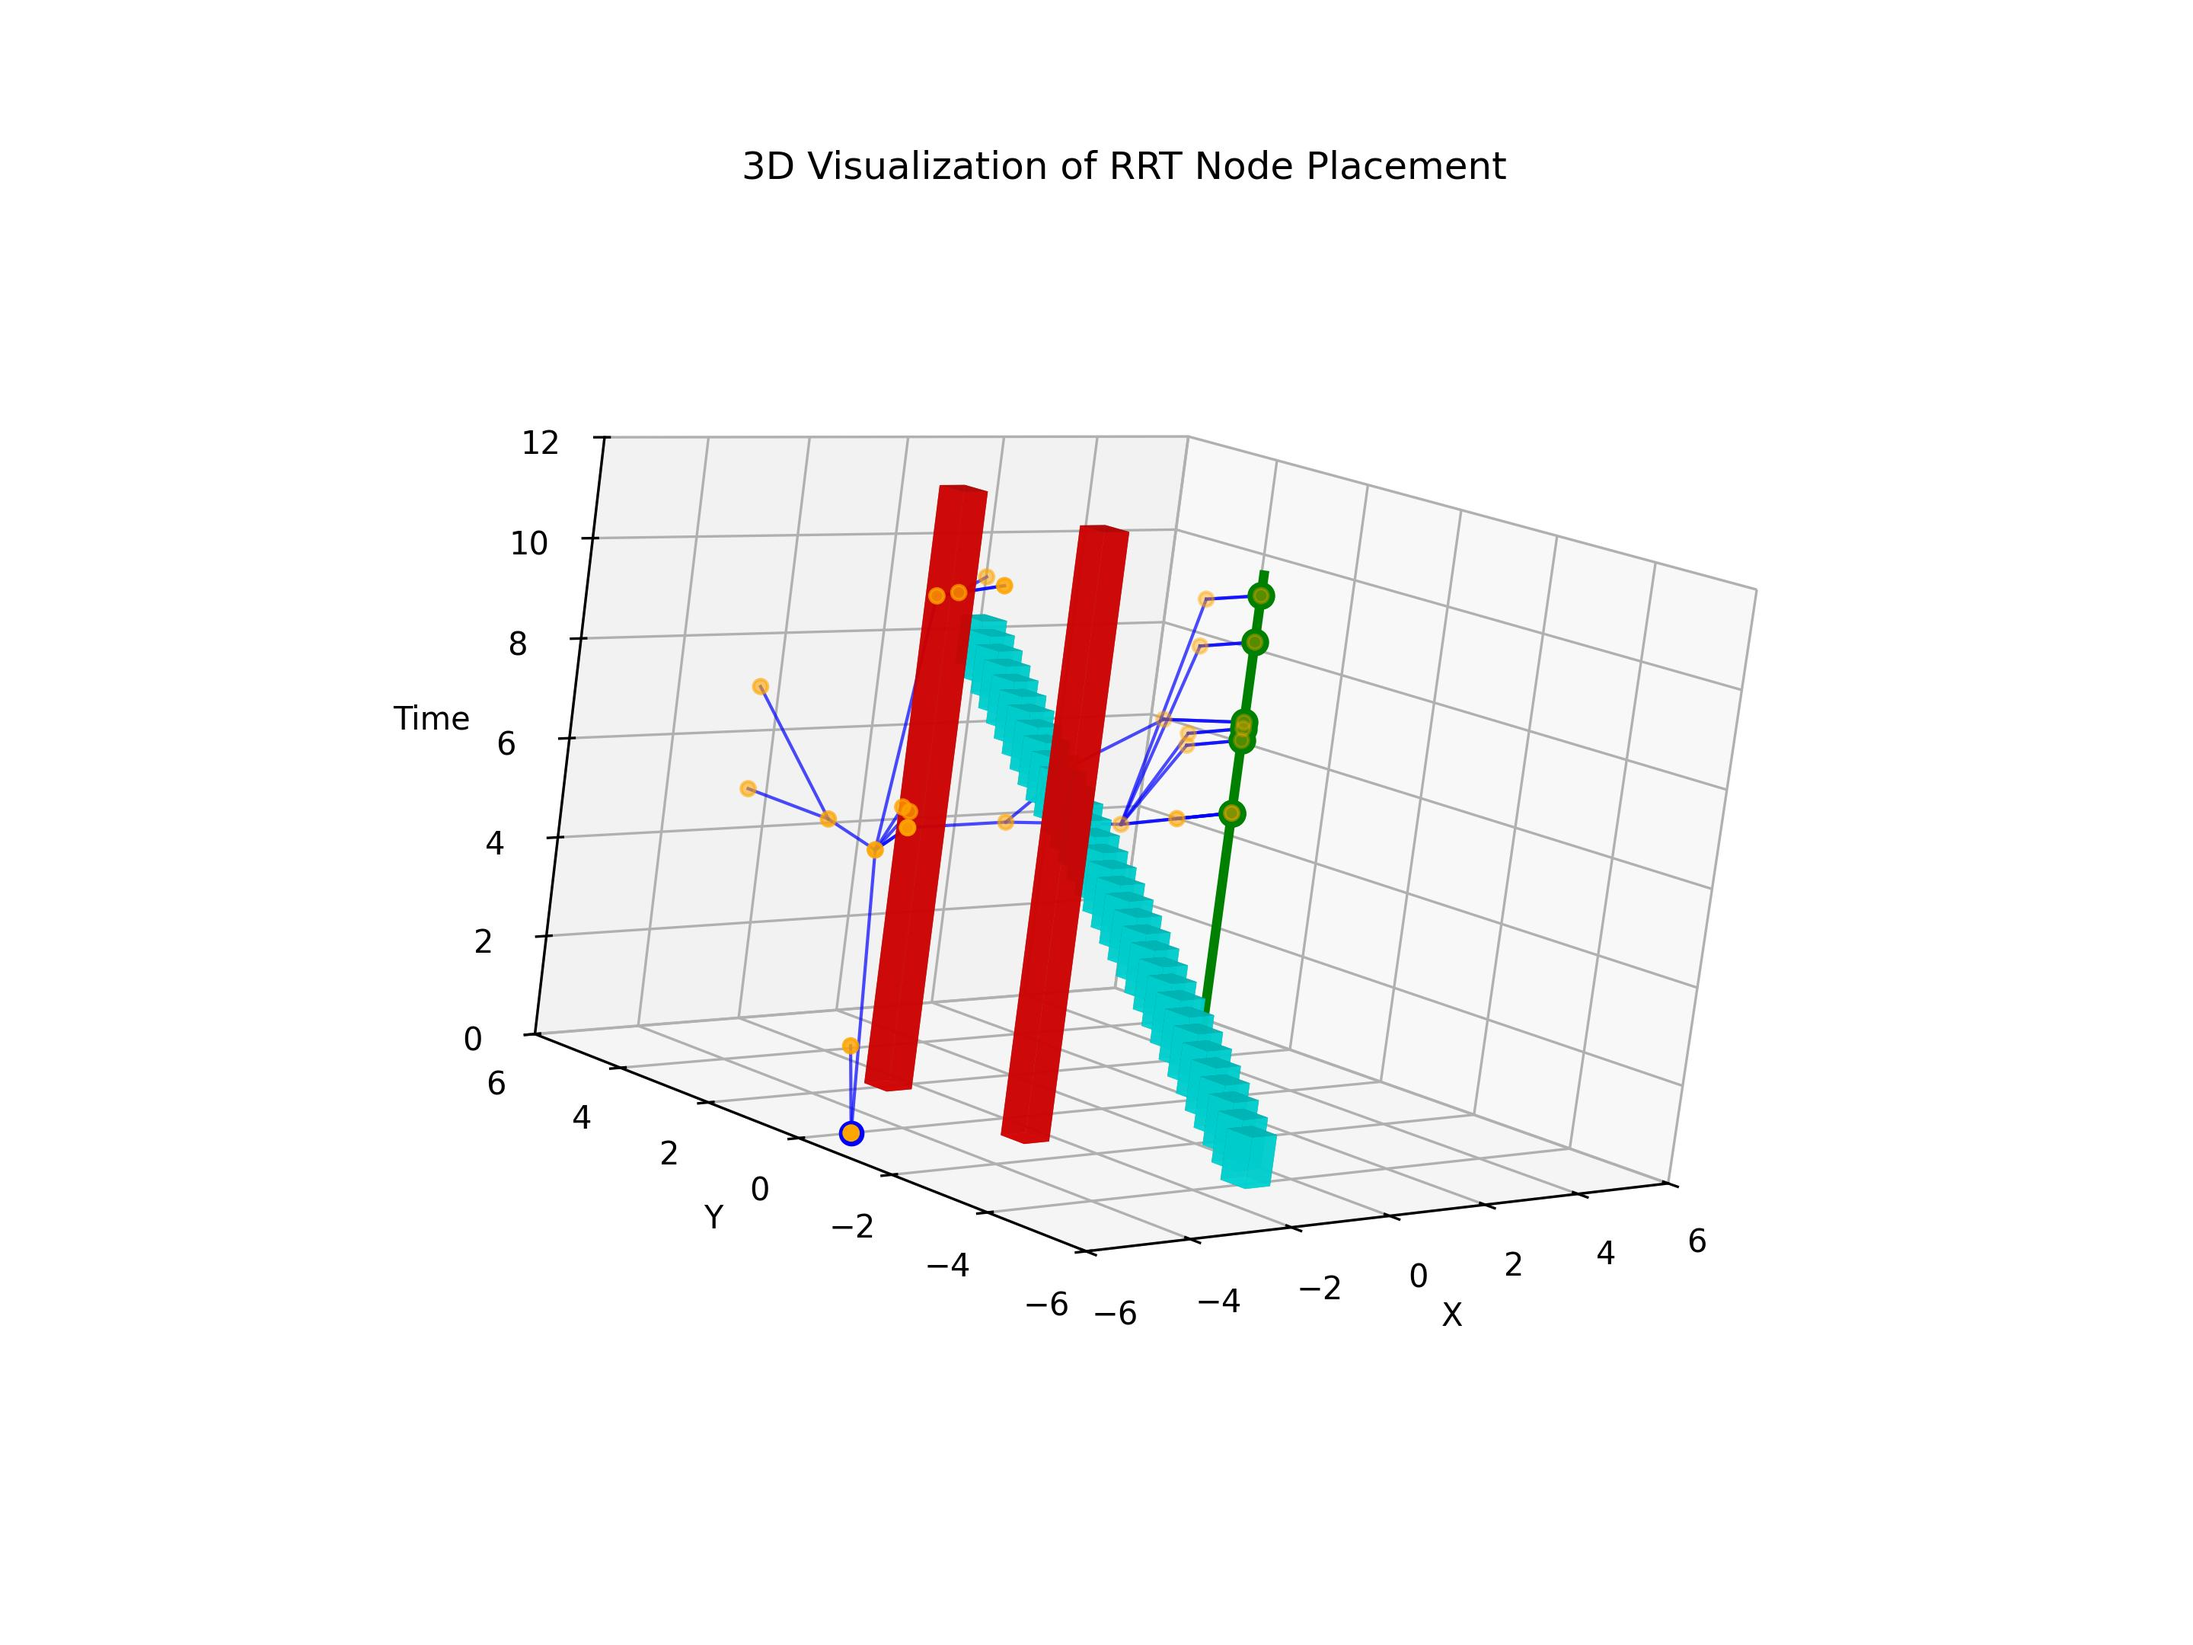
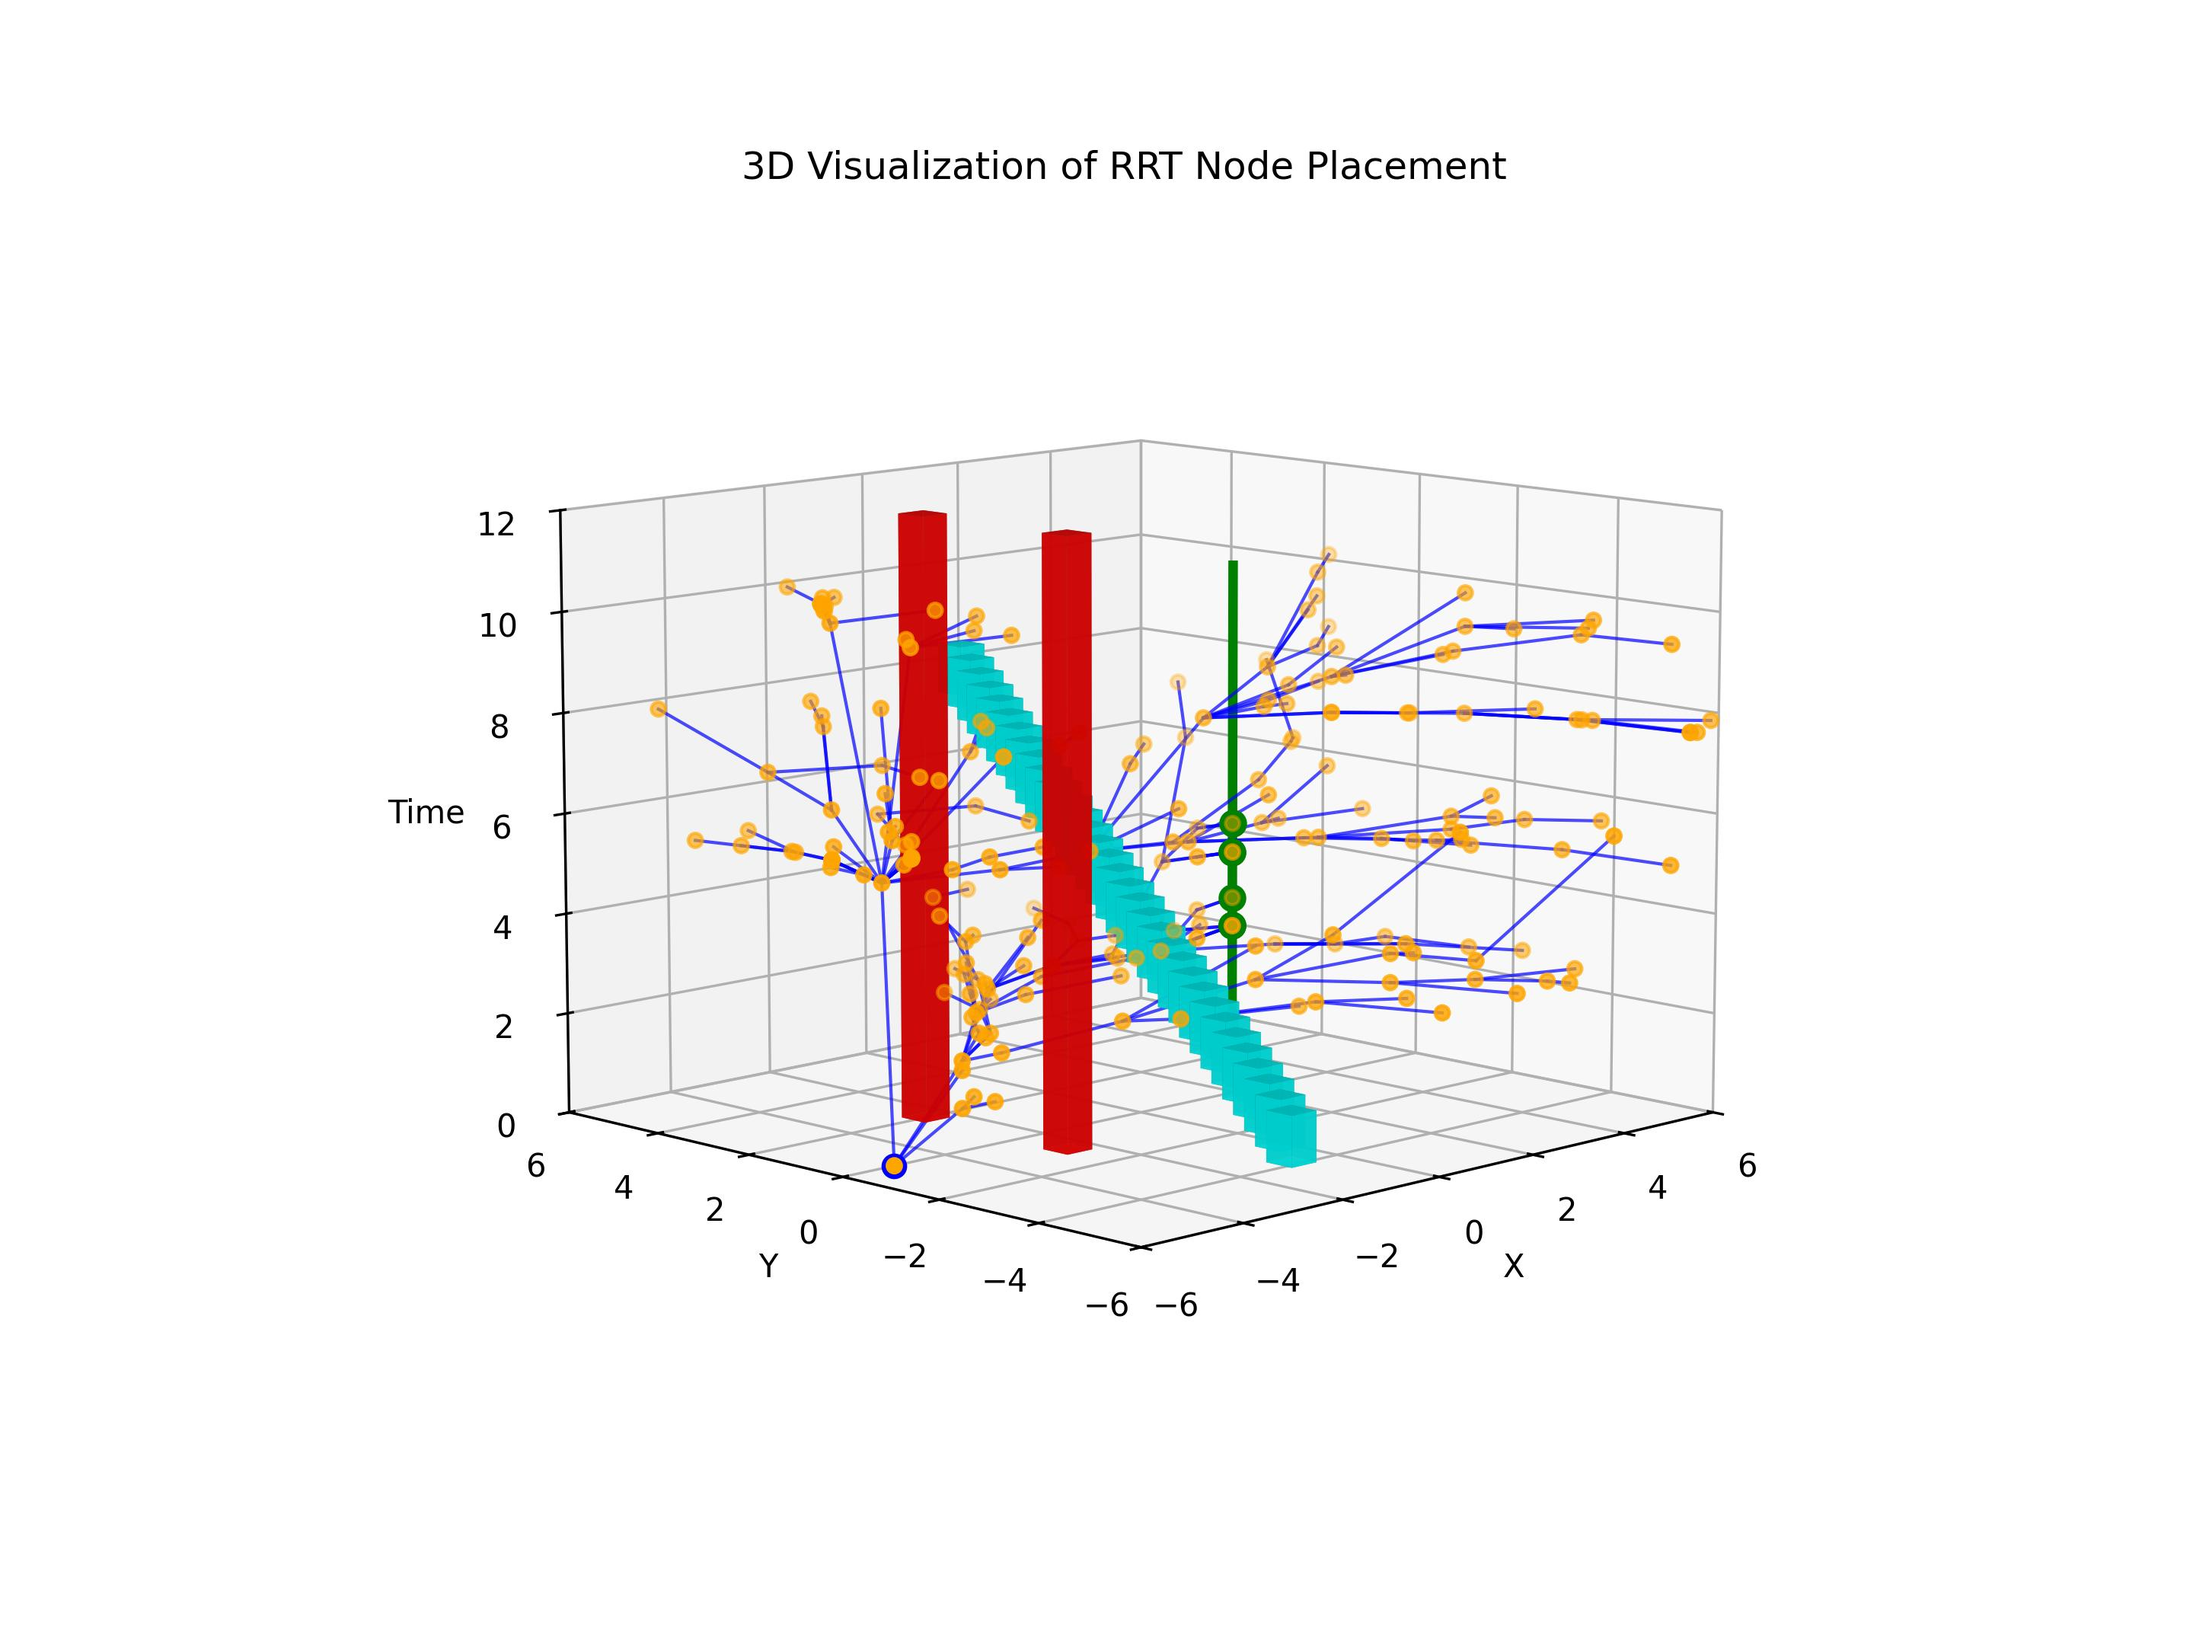
updated gif render with post build rotatiion

Changed region(s): [[0.1875, 0.2481, 0.8125, 0.8065]]

diff --git a/graph_visualizer.py b/graph_visualizer.py
@@ -11,8 +11,8 @@ sys.path.append(os.path.join(os.path.dirname(__file__), '../rrt_demo_app/build')
 import rrtDemo
 
 # Flags
-render_gif = False
-render_png = True
+render_gif = True
+render_png = False
 
 # View Angles
 elev_angle = 10
@@ -87,6 +87,11 @@ first_x, first_y, first_z = (first_node.xCrdnt(), first_node.yCrdnt(), first_nod
 num_frames = len(all_node_xs)
 duration_ms = 15000
 interval_ms = max(1, duration_ms // num_frames)
+
+# Rotation params
+rot_duration_ms = 5000
+rot_frames = int(rot_duration_ms / interval_ms) + 1  # +1 to include start frame
+total_frames = num_frames + rot_frames
 
 # Green indices (destination nodes)
 xy_tol = 1e-2
@@ -191,14 +196,14 @@ def plot_images(ax, image_data):
         ax.plot_surface(img_x_loc, img_y_loc, img_z_loc, rstride=1, cstride=1, facecolors=yield_img, shade=False)
 
 # Set common axis properties
-def set_axis_props(ax):
+def set_axis_props(ax, azim):
     ax.set_xlabel('X')
     ax.set_ylabel('Y')
     ax.set_zlabel('Time')
     ax.set_xlim(-6, 6)
     ax.set_ylim(-6, 6)
     ax.set_zlim(0, 12)
-    ax.view_init(elev=elev_angle, azim=azim_angle)  # Consistent view
+    ax.view_init(elev=elev_angle, azim=azim)  # Dynamic azim
 
 # Static plot
 fig = plt.figure(figsize=(9.6, 7.2))
@@ -210,7 +215,7 @@ plot_tree(ax, all_node_xs, all_node_ys, all_node_zs, fwd_dict, green_indices,
           first_x=first_x, first_y=first_y, first_z=first_z)
 plot_images(ax, image_data)
 
-set_axis_props(ax)
+set_axis_props(ax, azim_angle)
 ax.set_title('3D Visualization of RRT Node Placement')
 
 plt.show()
@@ -224,14 +229,31 @@ if render_gif:
     def animate(frame):
         ax_anim.cla()
         plot_obstacles(ax_anim, occupancy_map)
-        plot_tree(ax_anim, all_node_xs, all_node_ys, all_node_zs, fwd_dict, green_indices,
-                  frame=frame, dest_x=dest_x, dest_y=dest_y, dest_time=dest_time,
-                  first_x=first_x, first_y=first_y, first_z=first_z)
-        plot_images(ax_anim, image_data)
-        set_axis_props(ax_anim)
-        ax_anim.set_title(f'3D Animation of RRT Node Placement (Frame {frame + 1}/{num_frames})')
+        
+        if frame < num_frames:
+            # Building phase
+            plot_tree(ax_anim, all_node_xs, all_node_ys, all_node_zs, fwd_dict, green_indices,
+                      frame=frame, dest_x=dest_x, dest_y=dest_y, dest_time=dest_time,
+                      first_x=first_x, first_y=first_y, first_z=first_z)
+            if render_png:
+                plot_images(ax_anim, image_data)
+            current_azim = azim_angle
+            title = f'Building Tree (Frame {frame + 1}/{num_frames})'
+        else:
+            # Rotation phase: full tree, no images
+            plot_tree(ax_anim, all_node_xs, all_node_ys, all_node_zs, fwd_dict, green_indices,
+                      frame=None, dest_x=dest_x, dest_y=dest_y, dest_time=dest_time,
+                      first_x=first_x, first_y=first_y, first_z=first_z)
+            # No plot_images
+            rot_frame_idx = frame - num_frames
+            rot_progress = rot_frame_idx / (rot_frames - 1)
+            current_azim = azim_angle + 180 * rot_progress
+            title = f'Rotating View ({rot_progress:.1%})'
+        
+        set_axis_props(ax_anim, current_azim)
+        ax_anim.set_title(title)
     
-    anim = animation.FuncAnimation(fig_anim, animate, frames=num_frames, interval=interval_ms, blit=False, repeat=True)
+    anim = animation.FuncAnimation(fig_anim, animate, frames=total_frames, interval=interval_ms, blit=False, repeat=True)
     anim.save('rrt_animation.gif', writer='pillow')
     print("GIF saved as 'rrt_animation.gif'.")
     plt.close(fig_anim)
